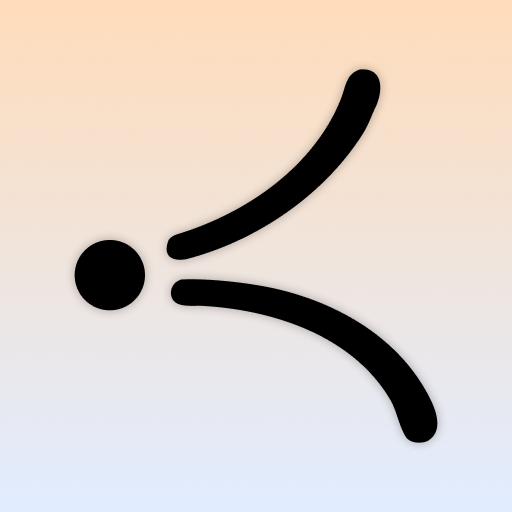
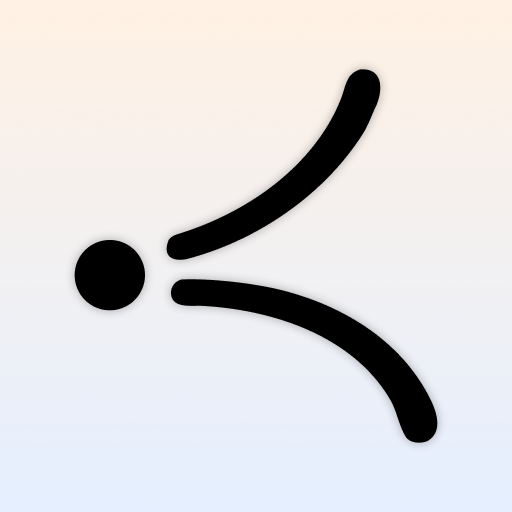
Fix UI spacing and interaction issues
- Fix hero avatars stacking: implement circular positioning instead of flex row
- Reduce top padding in create group panel for better mobile UX
- Reduce bottom padding in empty chat state to eliminate iOS PWA extra space
- Improve mic button handler with proper async/await and error handling
- Add guard to prevent analyzing modal auto-opening on chat creation
- Add debouncing to search input for faster user search results

diff --git a/css/styles.css b/css/styles.css
@@ -2950,7 +2950,7 @@ html, body {
   display: none;
   align-items: center;
   justify-content: center;
-  padding: 2.5rem 1.5rem 7.5rem;
+  padding: 2.5rem 1.5rem calc(2rem + env(safe-area-inset-bottom));
   position: relative;
   z-index: 1;
   overflow: hidden;
@@ -5836,6 +5836,9 @@ select,
 }
 
 .group-details-hero__avatars {
+  position: relative;
+  width: 12rem;
+  height: 12rem;
   display: flex;
   align-items: center;
   justify-content: center;
@@ -5855,10 +5858,30 @@ select,
   justify-content: center;
   font-size: 2.125rem;
   font-weight: 700;
+  position: absolute;
+  top: 50%;
+  left: 50%;
+  transform: translate(-50%, -50%);
 }
 
-.group-details-hero__avatars .group-details-hero__avatar + .group-details-hero__avatar {
-  margin-left: -1.375rem;
+.group-details-hero__avatars .group-details-hero__avatar:nth-child(1) {
+  transform: translate(calc(-50% + 0px), calc(-50% - 40px));
+  z-index: 4;
+}
+
+.group-details-hero__avatars .group-details-hero__avatar:nth-child(2) {
+  transform: translate(calc(-50% + 35px), calc(-50% + 20px));
+  z-index: 3;
+}
+
+.group-details-hero__avatars .group-details-hero__avatar:nth-child(3) {
+  transform: translate(calc(-50% - 35px), calc(-50% + 20px));
+  z-index: 2;
+}
+
+.group-details-hero__avatars .group-details-hero__avatar:nth-child(4) {
+  transform: translate(calc(-50% + 0px), calc(-50% + 50px));
+  z-index: 1;
 }
 
 .group-details-hero__name-wrap {
@@ -8480,7 +8503,7 @@ select,
   margin-top: var(--compose-sheet-top-pad);
   gap: 0.75rem;
   padding:
-    max(1rem, calc(env(safe-area-inset-top, 0rem) + 0.75rem))
+    calc(env(safe-area-inset-top, 0rem) + 0.25rem)
     0
     0;
   justify-content: flex-start;